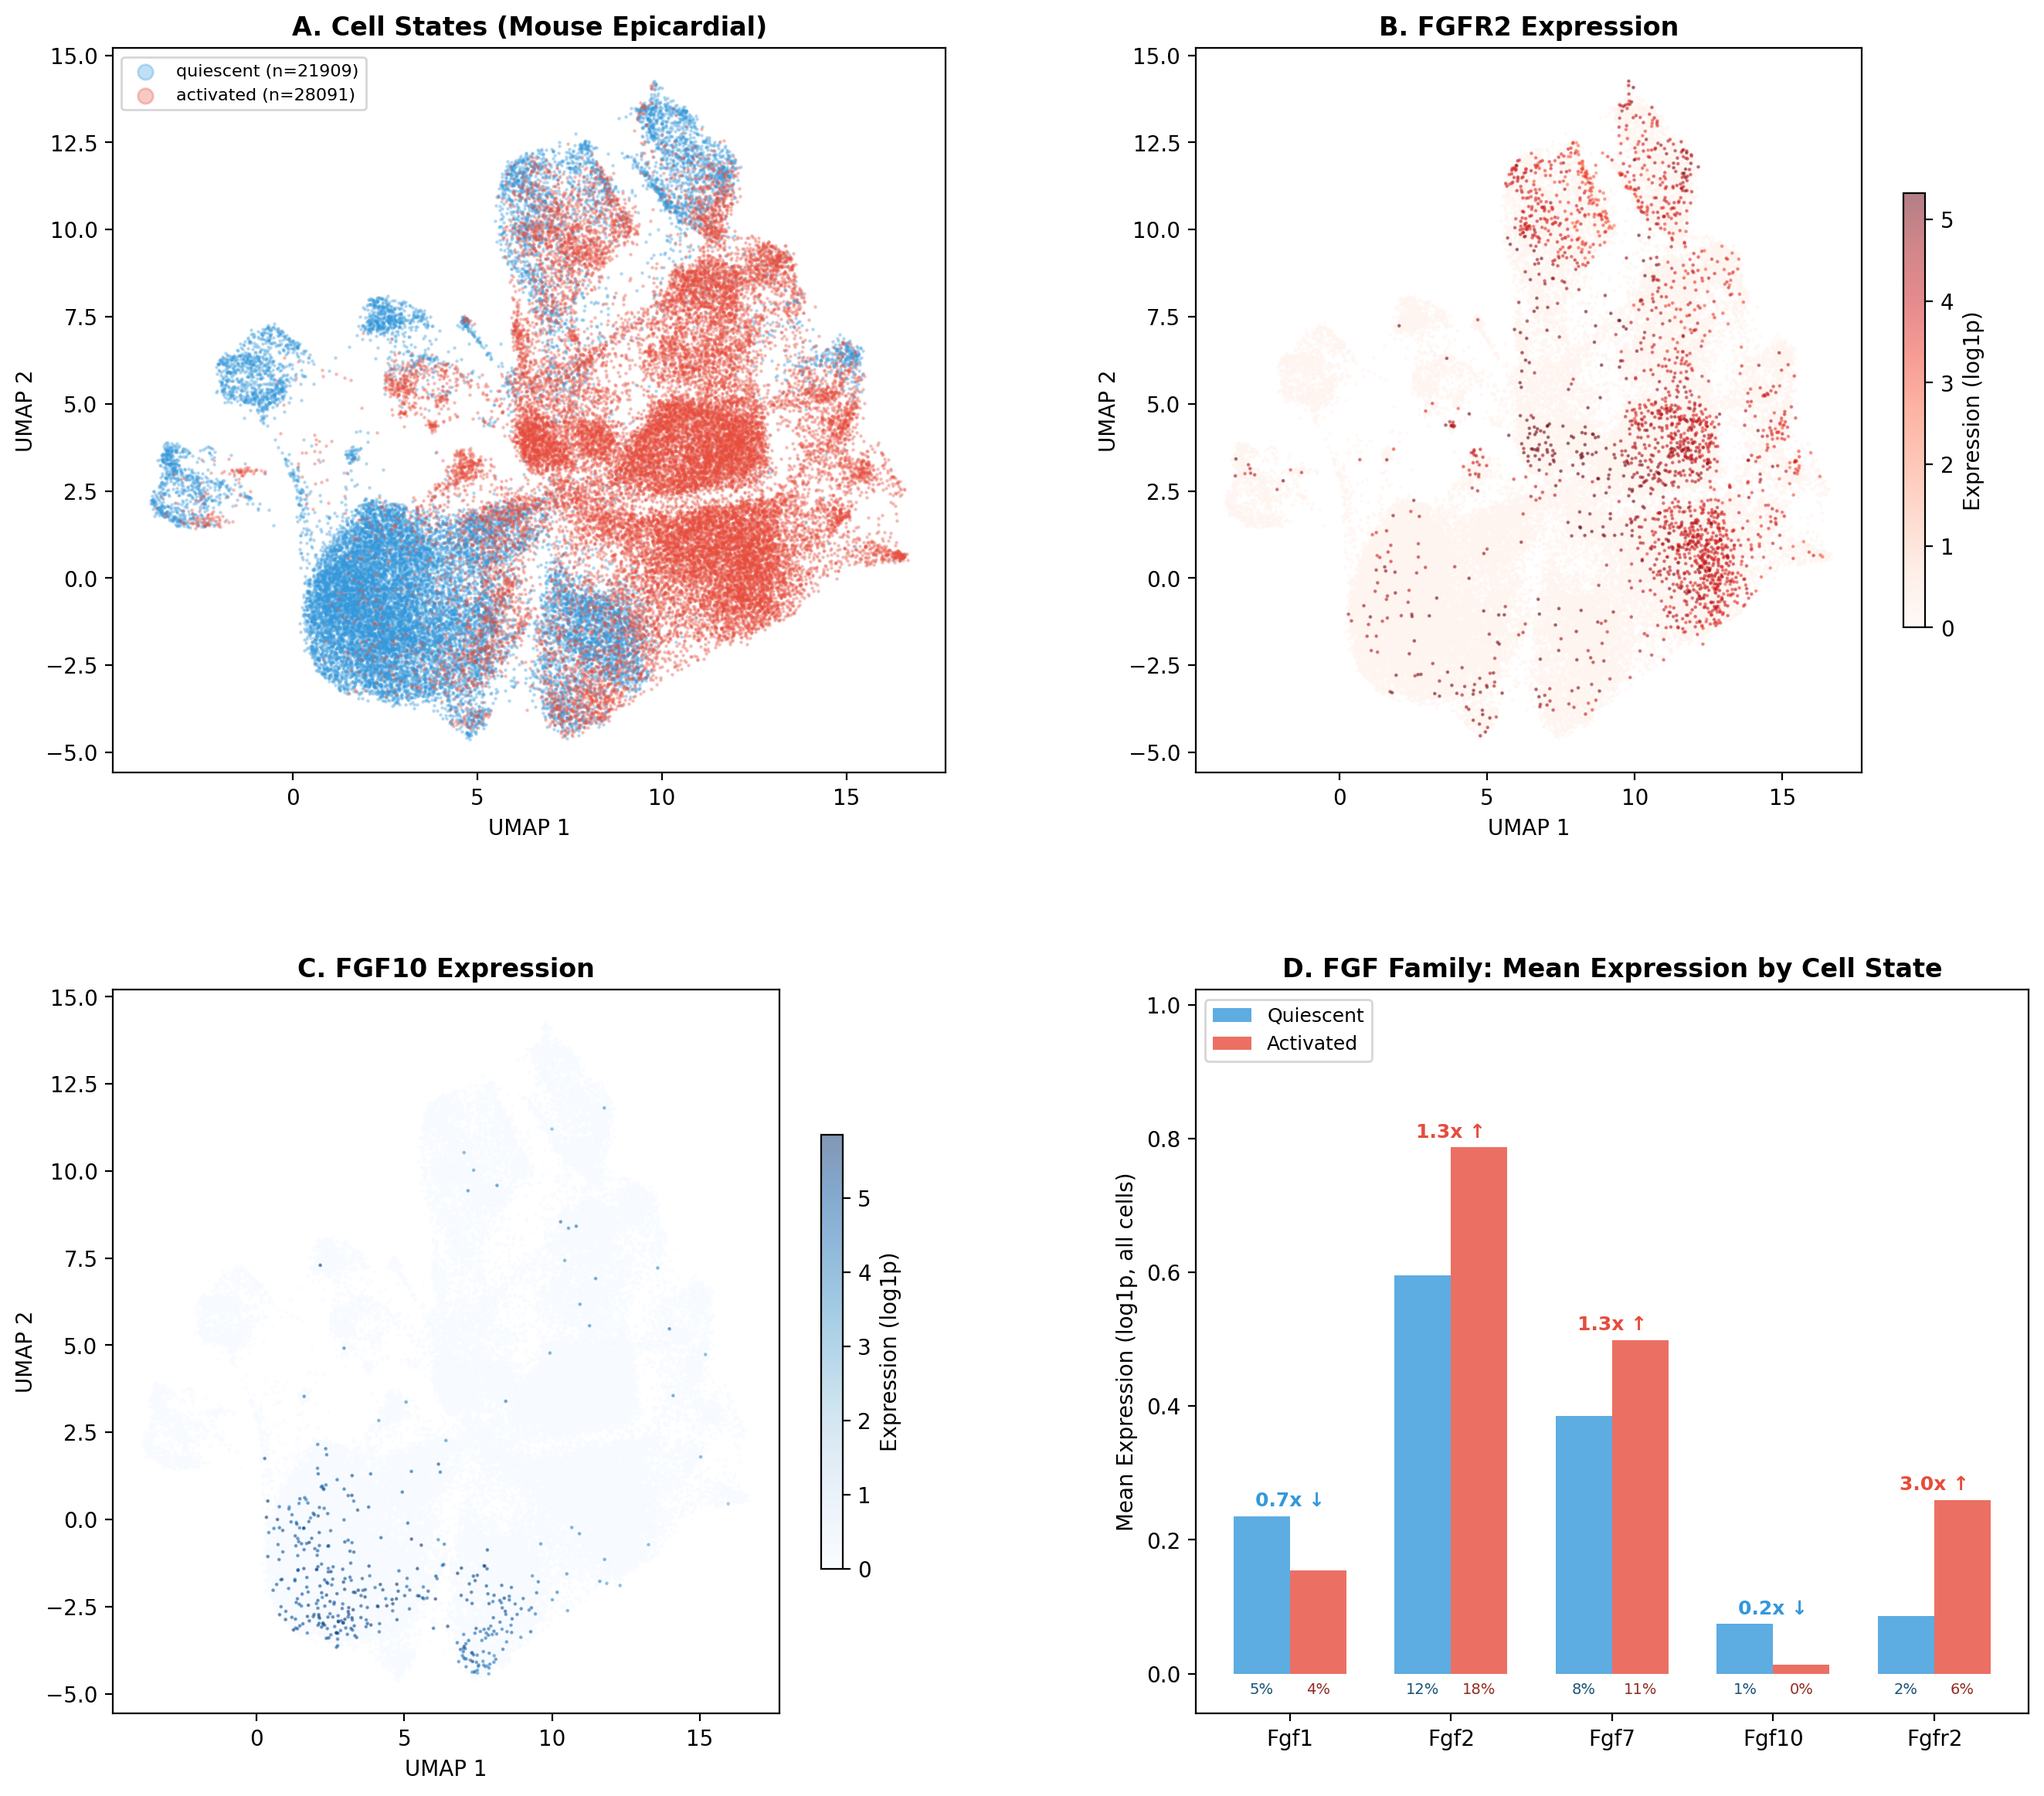
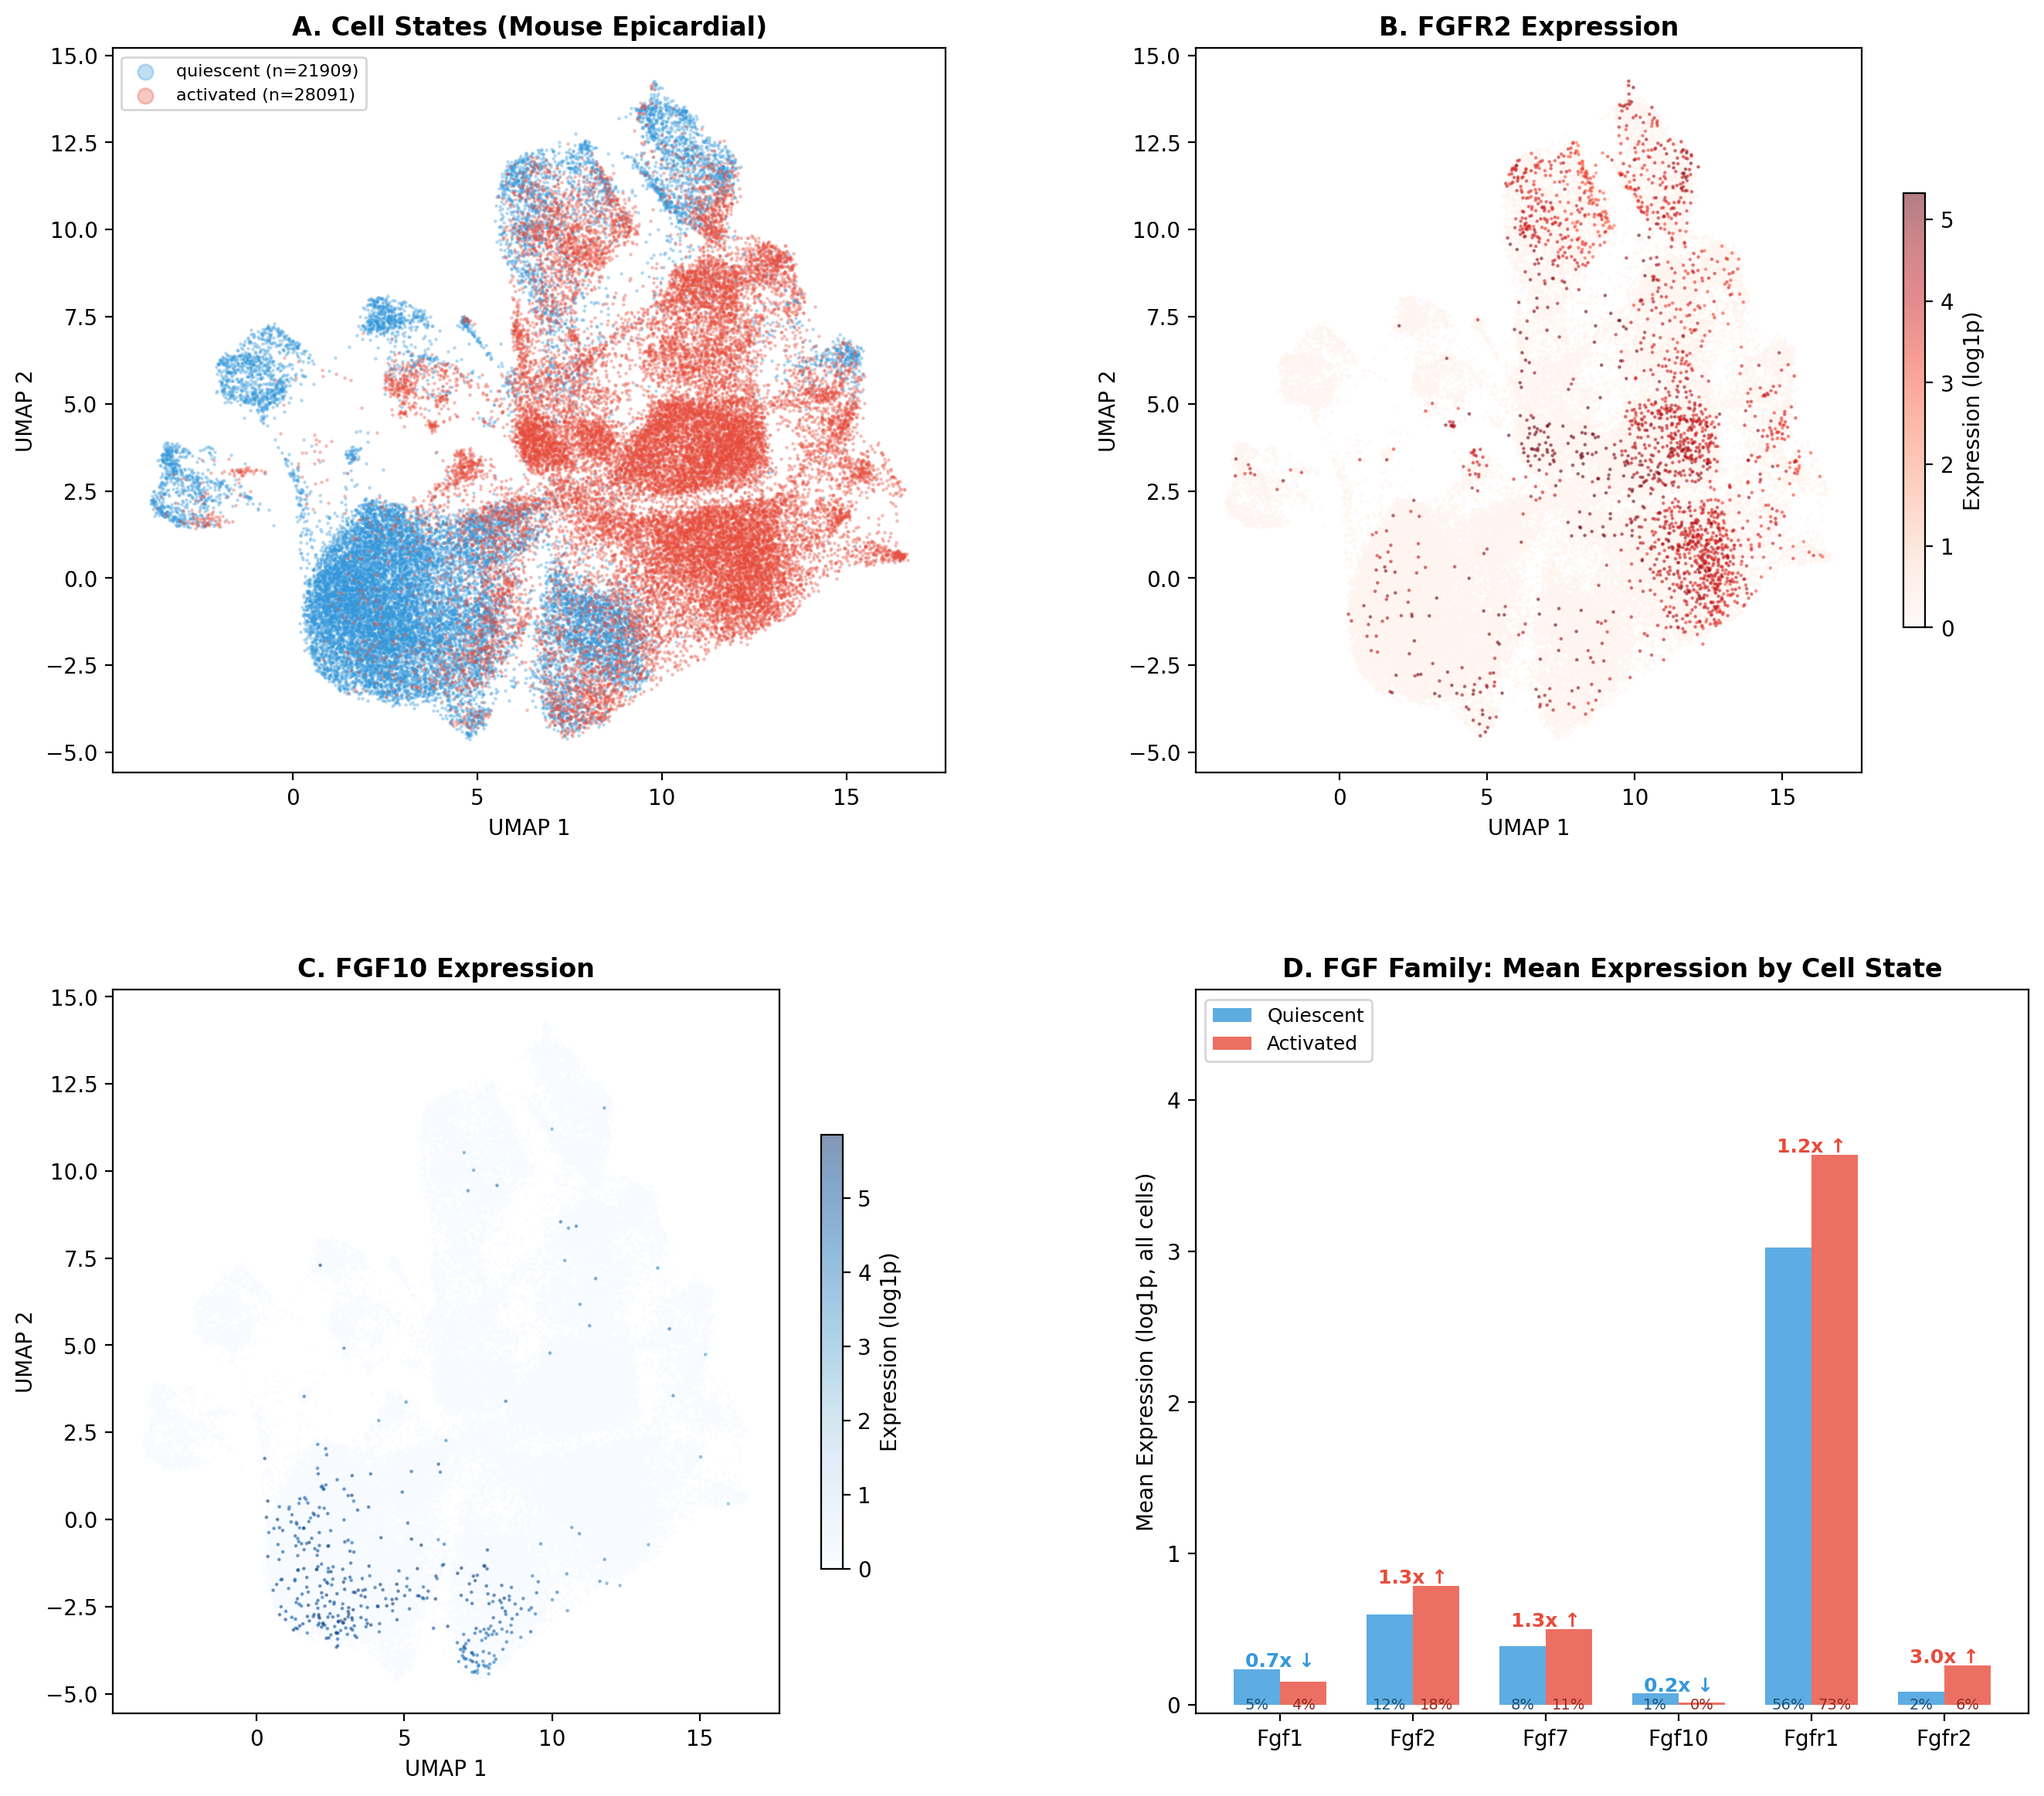
Add Fgfr1 back to Figure 1D bar chart
Bar chart handles the scale difference well — Fgfr1 (high expression,
1.2x change) provides contrast against Fgfr2 (low expression, 3.0x
change), reinforcing that FGFR2 is the only significantly upregulated
FGF receptor in activated epicardial cells.

diff --git a/scripts/06_figures/fig1_cell_states_fgf.py b/scripts/06_figures/fig1_cell_states_fgf.py
@@ -114,7 +114,7 @@ ax.set_title('C. FGF10 Expression', fontsize=12, fontweight='bold')
 # ---- Panel D: Bar chart of mean expression (all cells, incl. zeros) ----
 ax = fig.add_subplot(gs[1, 1])
 
-genes_to_plot = ['Fgf1', 'Fgf2', 'Fgf7', 'Fgf10', 'Fgfr2']
+genes_to_plot = ['Fgf1', 'Fgf2', 'Fgf7', 'Fgf10', 'Fgfr1', 'Fgfr2']
 genes_to_plot = [g for g in genes_to_plot if g in obs_df.columns]
 
 mean_q = []
